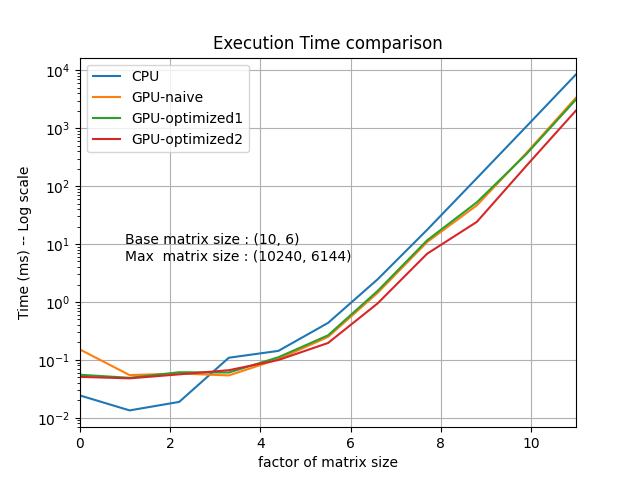
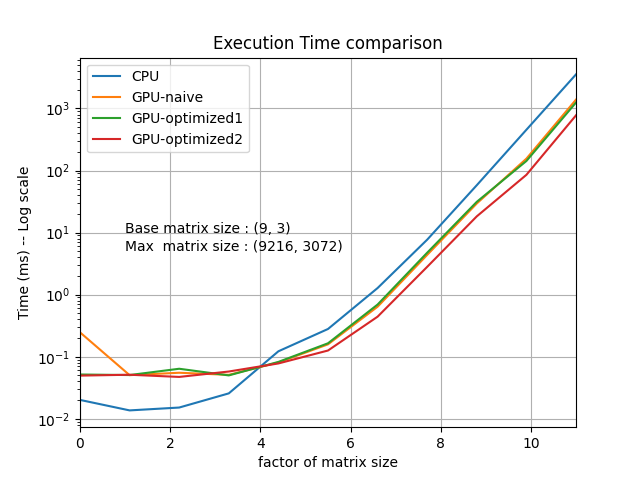
change naive kernel

diff --git a/4750HW3_2Dmat_pycu.py b/4750HW3_2Dmat_pycu.py
@@ -38,15 +38,14 @@ class MatrixMultiply:
             int ty = threadIdx.y;
             int bx = blockIdx.x;
             int by = blockIdx.y;
-            int Col = TILE_WIDTH * bx + tx;
-            int Row = TILE_WIDTH * by + ty;
-            float tmp = 0;
-            for(int t = 0; t < (TILE_WIDTH + N - 1)/TILE_WIDTH; ++t) {
-               for (int i = 0; i < TILE_WIDTH; ++i)
-                   tmp += A[Row * N + t * TILE_WIDTH + i] * B[(t * TILE_WIDTH + i) * M + Col];
-            }            
-            if(Row < M && Col < M)
+            int Col = blockDim.x * bx + tx;
+            int Row = blockDim.y * by + ty;
+            if((Row < M) && (Col < M)) {
+               float tmp = 0;
+               for (int i = 0; i < N; ++i)
+                   tmp += A[Row * N + i] * B[i * M + Col];
                C[Row * M + Col] = tmp;
+            }            
         }
         """
 
@@ -66,19 +65,18 @@ class MatrixMultiply:
             int Row = TILE_WIDTH * by + ty;
             float tmp = 0;
             for(int t = 0; t < (TILE_WIDTH + N - 1)/TILE_WIDTH; ++t) {
-                if(t * TILE_WIDTH + ty < N && Col < M ) 
-                     ds_B[ty][tx] = B[(t * TILE_WIDTH + ty) * M + Col];
-                else
-                     ds_B[ty][tx] = 0;
-                __syncthreads();
-                for (int i = 0; i < TILE_WIDTH; ++i)
-                     tmp += A[Row * N + t * TILE_WIDTH + i] * ds_B[i][tx];
-                __syncthreads();
-                
+                   if(t * TILE_WIDTH + ty < N && Col < M ) 
+                        ds_B[ty][tx] = B[(t * TILE_WIDTH + ty) * M + Col];
+                   else
+                        ds_B[ty][tx] = 0;
+                   __syncthreads();
+                   for (int i = 0; i < TILE_WIDTH; ++i)
+                        tmp += A[Row * N + t * TILE_WIDTH + i] * ds_B[i][tx];
+                   __syncthreads();                
             }
-            if(Row < M && Col < M)
+            if(Row < M && Col < M) {
                 C[Row * M + Col] = tmp;
-            
+            } // end of if            
         }
         """
 
@@ -102,22 +100,23 @@ class MatrixMultiply:
             // compute the total tiles needed
             // iterate through all the tiles for A from left to right
             for(int k = 0; k < (TILE_WIDTH + N - 1)/TILE_WIDTH; k++) {
-                if(k * TILE_WIDTH + tx < N && Row < M)
-                     ds_A[ty][tx] = A[Row * N + k * TILE_WIDTH + tx];
-                else
-                     ds_A[ty][tx] = 0;
-                if(k * TILE_WIDTH + ty < N && Col < M ) 
-                     ds_B[ty][tx] = B[(k * TILE_WIDTH + ty) * M + Col];
-                else
-                     ds_B[ty][tx] = 0;
-                __syncthreads();
+                    if(k * TILE_WIDTH + tx < N && Row < M)
+                        ds_A[ty][tx] = A[Row * N + k * TILE_WIDTH + tx];
+                    else
+                        ds_A[ty][tx] = 0;
+                    if(k * TILE_WIDTH + ty < N && Col < M ) 
+                        ds_B[ty][tx] = B[(k * TILE_WIDTH + ty) * M + Col];
+                    else
+                        ds_B[ty][tx] = 0;
+                    __syncthreads();
 
-                for (int i = 0; i < TILE_WIDTH; ++i)
-                     tmp += ds_A[ty][i] * ds_B[i][tx];
-                __syncthreads();
-            }
-            if(Row < M && Col < M)
-                C[(by * blockDim.y + ty) * M + bx * blockDim.x + tx] = tmp;
+                    for (int i = 0; i < TILE_WIDTH; ++i)
+                        tmp += ds_A[ty][i] * ds_B[i][tx];
+                    __syncthreads();
+            } // end of for 
+            if(Row < M && Col < M) {
+                    C[(by * blockDim.y + ty) * M + bx * blockDim.x + tx] = tmp;
+            } // end of if
         }
         """
         # Build kernel codes (x3)
@@ -217,7 +216,7 @@ if __name__ == '__main__':
             end = time.time()
             time_cpu[i][p] = (end - start)*1e+3 # in ms
             try:
-                assert (np.all(((out_naive - out_cpu)/out_cpu < 0.0001)))
+                assert (np.all(((out_naive - out_cpu)/out_cpu < 0.001)))
             except AssertionError:
                 print("\nCheckpoint failed: naive results doesn't match CPU result!\n")
             print("naive and CPU results match!")
